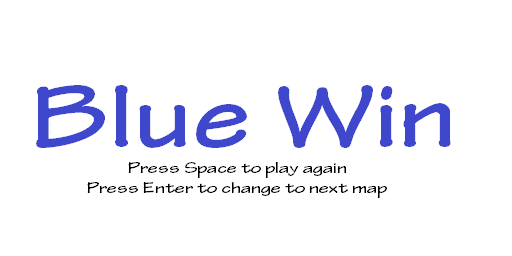
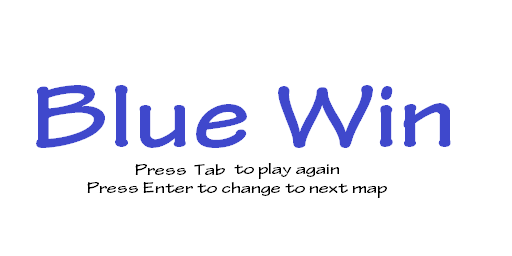
[Rye] - Commit for sure

Changed region(s): [[0.25, 0.625, 0.6875, 0.6875]]

diff --git a/Game/source/Game.cpp b/Game/source/Game.cpp
@@ -81,7 +81,7 @@ void Game::update(float deltaTime)
 		case GameState::STATE_RED_WIN:
 		case GameState::STATE_BLUE_WIN:
 		case GameState::STATE_DRAW:
-			if(GetAsyncKeyState(VK_SPACE))
+			if(GetAsyncKeyState(VK_TAB))
 				Map::GetInstance()->ChangeMap(MAP, Map::GetInstance()->m_currentMap);
 			if(GetAsyncKeyState(VK_RETURN))
 			{
